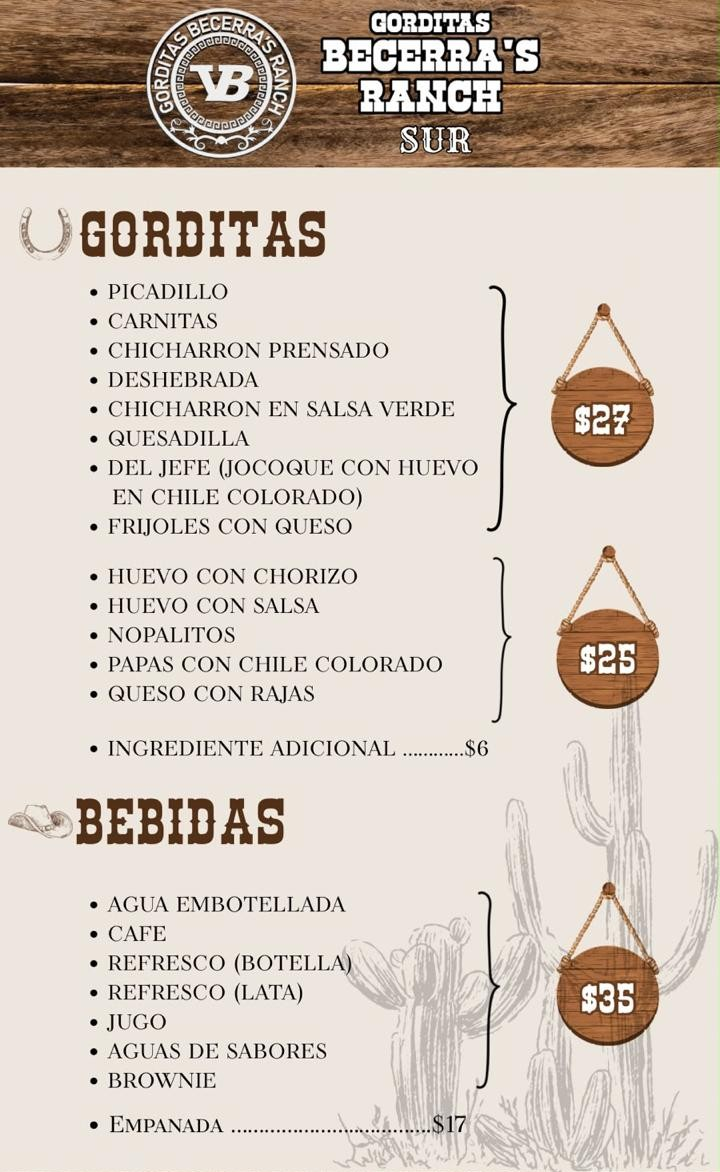
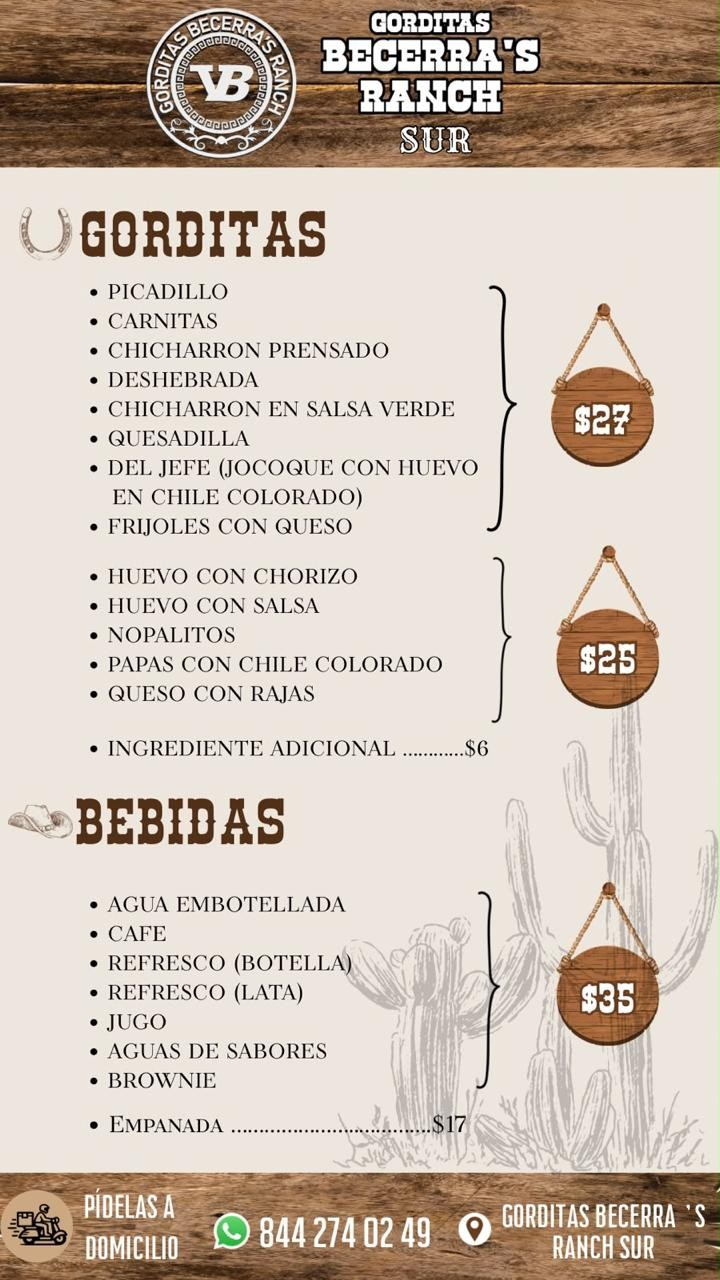
Mostrar el menú original completo, incluida la franja de madera inferior
Claude-Session: https://claude.ai/code/session_01DBVNFsiDc1J2feQ6GhpgxB

diff --git a/menu.html b/menu.html
@@ -64,7 +64,7 @@
       <svg viewBox="0 0 24 24" aria-hidden="true"><path d="M15 5 8 12l7 7 1.4-1.4-5.6-5.6 5.6-5.6z"/></svg>
       Inicio
     </a>
-    <img class="menu" src="/assets/menu.jpg" width="720" height="1172"
+    <img class="menu" src="/assets/menu.jpg" width="720" height="1280"
       alt="Menú. Gorditas $27: picadillo, carnitas, chicharrón prensado, deshebrada, chicharrón en salsa verde, quesadilla, del jefe (jocoque con huevo en chile colorado), frijoles con queso. Gorditas $25: huevo con chorizo, huevo con salsa, nopalitos, papas con chile colorado, queso con rajas. Ingrediente adicional $6. Bebidas $35: agua embotellada, café, refresco botella, refresco lata, jugo, aguas de sabores, brownie. Empanada $17.">
   </main>
 </body>
